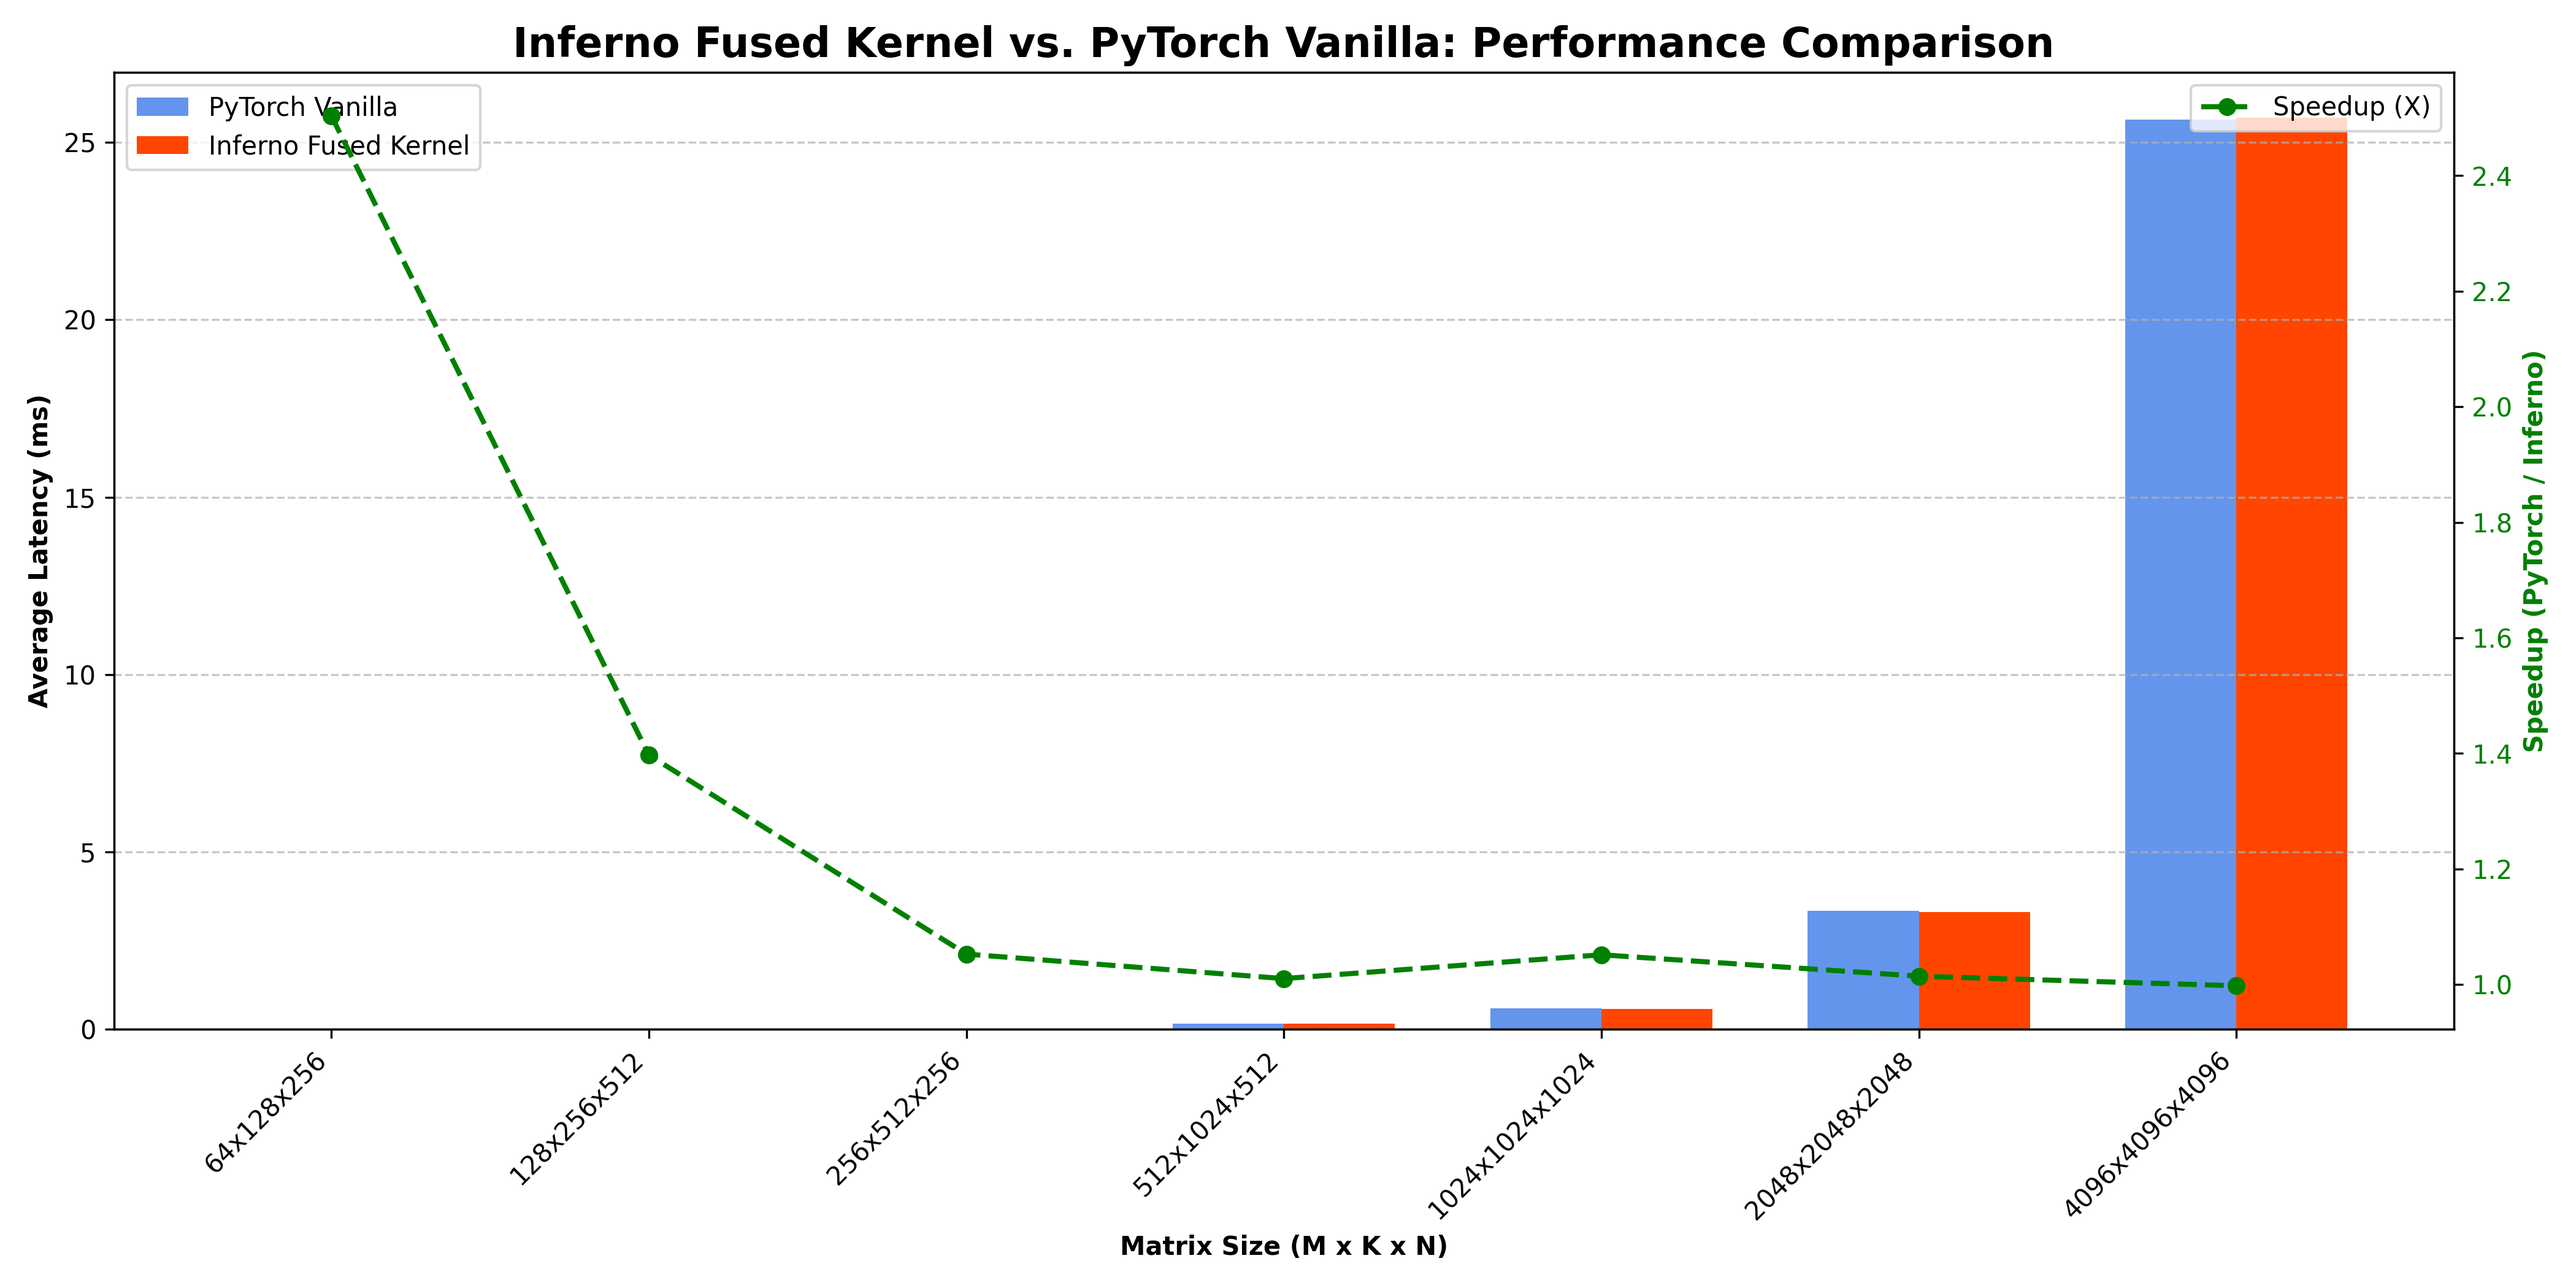
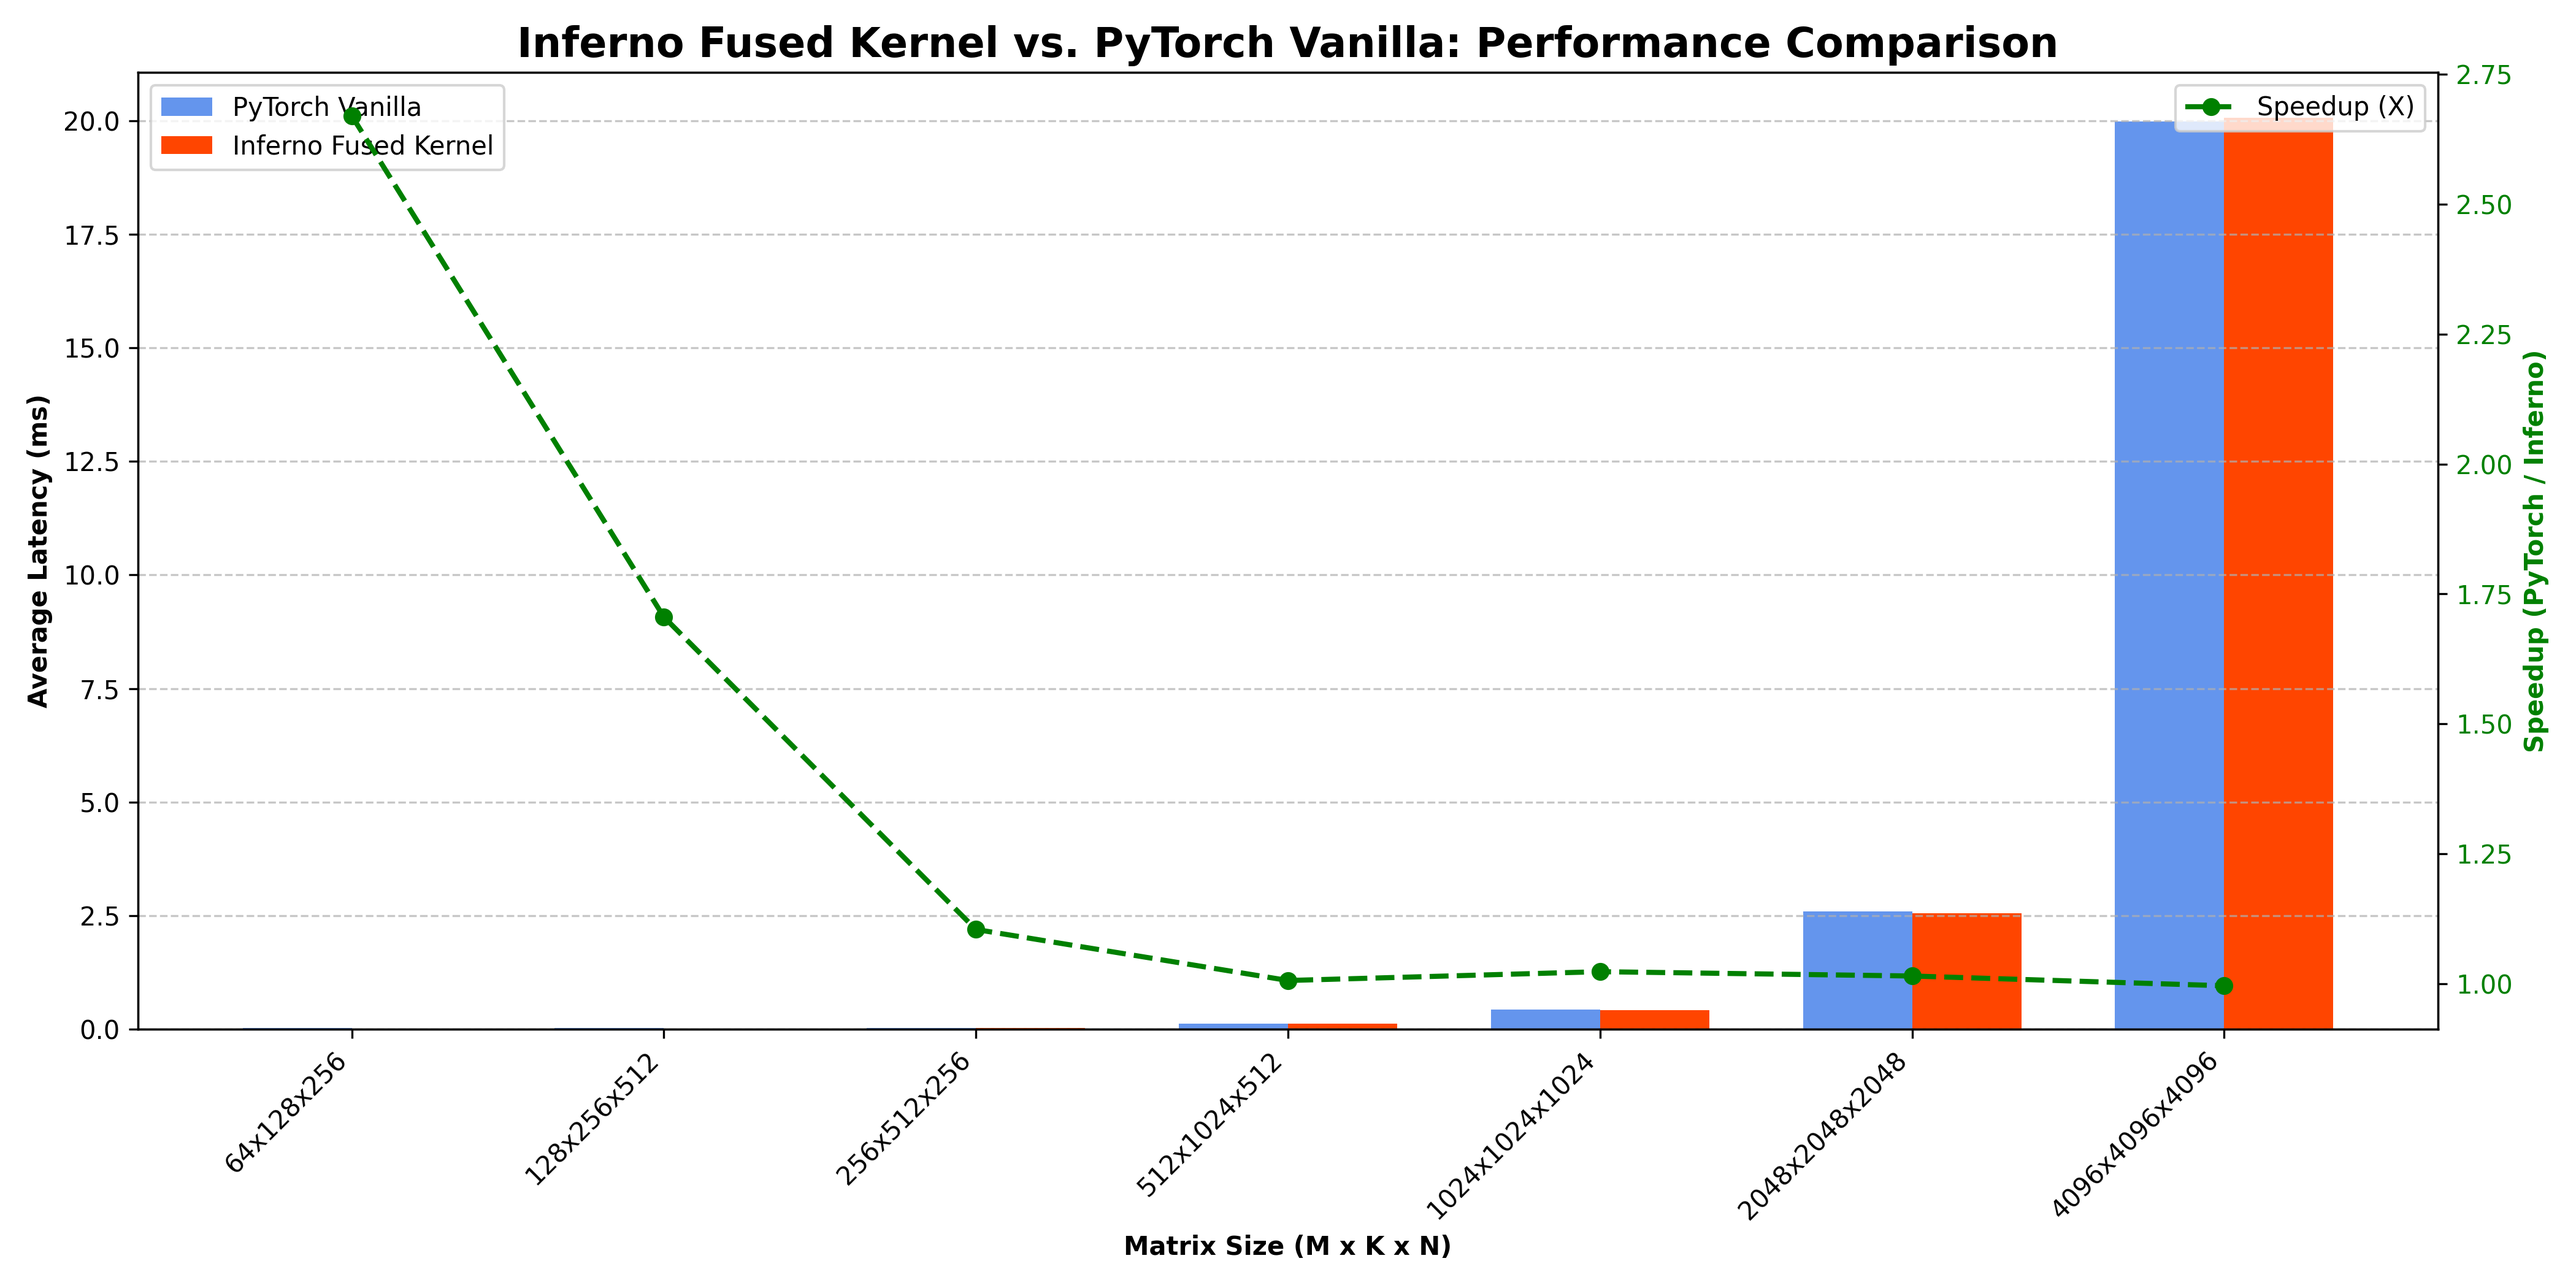
benchmarked decorator

diff --git a/fused_matmul_relu_demo.py b/fused_matmul_relu_demo.py
@@ -1,11 +1,11 @@
 import torch
+import time
 from inferno import InfernoCompiler
 
 # ================================================================================
 # DEMONSTRATION
 # ================================================================================
 
-# Create a global instance of our compiler
 inferno = InfernoCompiler()
 
 # --- Define a model using the pattern ---
@@ -20,9 +20,49 @@ def simple_fused_model(A, B):
 def simple_unfused_model(A, B):
     x = torch.matmul(A, B)
     # Some other operation in between
-    # x = x * 2.0 
+    x = x * 2.0 
     y = torch.relu(x)
     return y
+
+# --- Benchmarking utilities ---
+def benchmark_function(func, A, B, num_runs=100, warmup_runs=10):
+    """Benchmark a function with warmup runs and timing statistics."""
+    # Warmup runs
+    for _ in range(warmup_runs):
+        _ = func(A, B)
+    
+    # Synchronize GPU before timing
+    if A.device.type == 'cuda':
+        torch.cuda.synchronize()
+    
+    # Actual timing runs
+    start_time = time.time()
+    for _ in range(num_runs):
+        _ = func(A, B)
+    
+    # Synchronize GPU after timing
+    if A.device.type == 'cuda':
+        torch.cuda.synchronize()
+    
+    end_time = time.time()
+    
+    total_time = end_time - start_time
+    avg_time = total_time / num_runs
+    throughput = num_runs / total_time
+    
+    return {
+        'total_time': total_time,
+        'avg_time': avg_time,
+        'throughput': throughput,
+        'num_runs': num_runs
+    }
+
+def print_benchmark_results(name, results):
+    """Print formatted benchmark results."""
+    print(f"\n    {name}:")
+    print(f"      Average time: {results['avg_time']*1000:.3f} ms")
+    print(f"      Total time: {results['total_time']:.3f} s")
+    print(f"      Throughput: {results['throughput']:.1f} ops/sec")
 
 
 if __name__ == '__main__':
@@ -49,7 +89,6 @@ if __name__ == '__main__':
     print(f"\n    Verification against PyTorch: {status}")
     print(f"    Output shape: {output_fused.shape}")
 
-
     # --- Test the un-compiled function ---
     print("\n[2] Testing the model that should NOT be fused...")
     
@@ -63,6 +102,61 @@ if __name__ == '__main__':
     status_unfused = "✅ PASSED" if is_close_unfused else "❌ FAILED"
     print(f"\n    Verification against PyTorch: {status_unfused}")
     print(f"    Output shape: {output_unfused.shape}")
+    
+    # --- Performance Benchmarking ---
+    print("\n[3] PERFORMANCE BENCHMARKING")
+    print("-" * 40)
+    
+    # Define PyTorch baseline functions for comparison
+    def pytorch_fused_baseline(A, B):
+        return torch.relu(torch.matmul(A, B))
+    
+    def pytorch_unfused_baseline(A, B):
+        x = torch.matmul(A, B)
+        y = torch.relu(x)
+        return y
+    
+    # Benchmark parameters
+    num_runs = 1000
+    warmup_runs = 50
+    
+    print(f"\nBenchmarking with {num_runs} runs (after {warmup_runs} warmup runs):")
+    print(f"Matrix sizes: A({A.shape}) @ B({B.shape})")
+    
+    # Benchmark fused model (should use custom kernel)
+    print("\n--- FUSED MODEL BENCHMARKS ---")
+    fused_results = benchmark_function(simple_fused_model, A, B, num_runs, warmup_runs)
+    print_benchmark_results("Inferno Fused", fused_results)
+    
+    # Benchmark PyTorch fused baseline
+    pytorch_fused_results = benchmark_function(pytorch_fused_baseline, A, B, num_runs, warmup_runs)
+    print_benchmark_results("PyTorch Fused", pytorch_fused_results)
+    
+    # Benchmark unfused model (should use original PyTorch)
+    print("\n--- UNFUSED MODEL BENCHMARKS ---")
+    unfused_results = benchmark_function(simple_unfused_model, A, B, num_runs, warmup_runs)
+    print_benchmark_results("Inferno Unfused", unfused_results)
+    
+    # Benchmark PyTorch unfused baseline
+    pytorch_unfused_results = benchmark_function(pytorch_unfused_baseline, A, B, num_runs, warmup_runs)
+    print_benchmark_results("PyTorch Unfused", pytorch_unfused_results)
+    
+    # --- Performance Comparison ---
+    print("\n--- PERFORMANCE COMPARISON ---")
+    
+    # Compare fused vs unfused
+    fused_speedup = pytorch_fused_results['avg_time'] / fused_results['avg_time']
+    print(f"\nFused kernel speedup: {fused_speedup:.2f}x faster than PyTorch")
+    
+    # Compare Inferno vs PyTorch for unfused
+    unfused_speedup = pytorch_unfused_results['avg_time'] / unfused_results['avg_time']
+    print(f"Unfused kernel speedup: {unfused_speedup:.2f}x faster than PyTorch")
+    
+    # Overall comparison
+    if fused_speedup > 1.0:
+        print(f"✅ Fused kernel shows {fused_speedup:.2f}x performance improvement!")
+    else:
+        print(f"⚠  Fused kernel is {1/fused_speedup:.2f}x slower than PyTorch")
     
     print("\n" + "="*60)
 

diff --git a/inferno/__init__.py b/inferno/__init__.py
@@ -33,7 +33,7 @@ class InfernoCompiler:
 
         if analyzer.pattern_found:
             print(f"    ✅ Pattern Found: torch.relu(torch.matmul(...))")
-            print(f"    🔥 Replacing with fused kernel: inferno_ops.fused_gemm_relu")
+            print(f"    🔥 Replacing with fused kernel: inferno_fused.fused_gemm_relu")
 
             # 4. If the pattern is found, return a new function that *only*
             #    calls our fused kernel. This is the "compilation" step.
